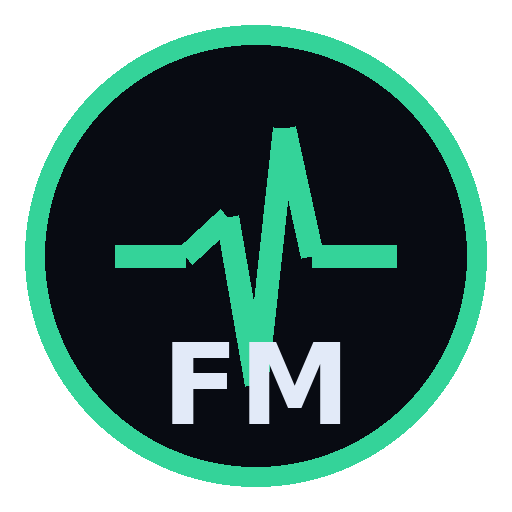
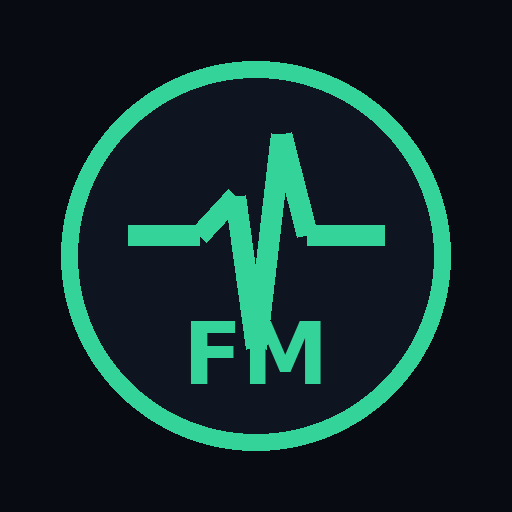
Add files via upload

diff --git a/index.html b/index.html
@@ -4,7 +4,9 @@
 <meta charset="UTF-8">
 <meta name="viewport" content="width=device-width, initial-scale=1, viewport-fit=cover">
 <title>FocusMed</title>
-<link rel="manifest" href="manifest.json">
+<link rel="manifest" href="./manifest.json">
+<link rel="icon" type="image/png" href="./favicon.png">
+<link rel="apple-touch-icon" href="./icon-192.png">
 <meta name="theme-color" content="#080b12">
 <meta name="mobile-web-app-capable" content="yes">
 <meta name="apple-mobile-web-app-capable" content="yes">
